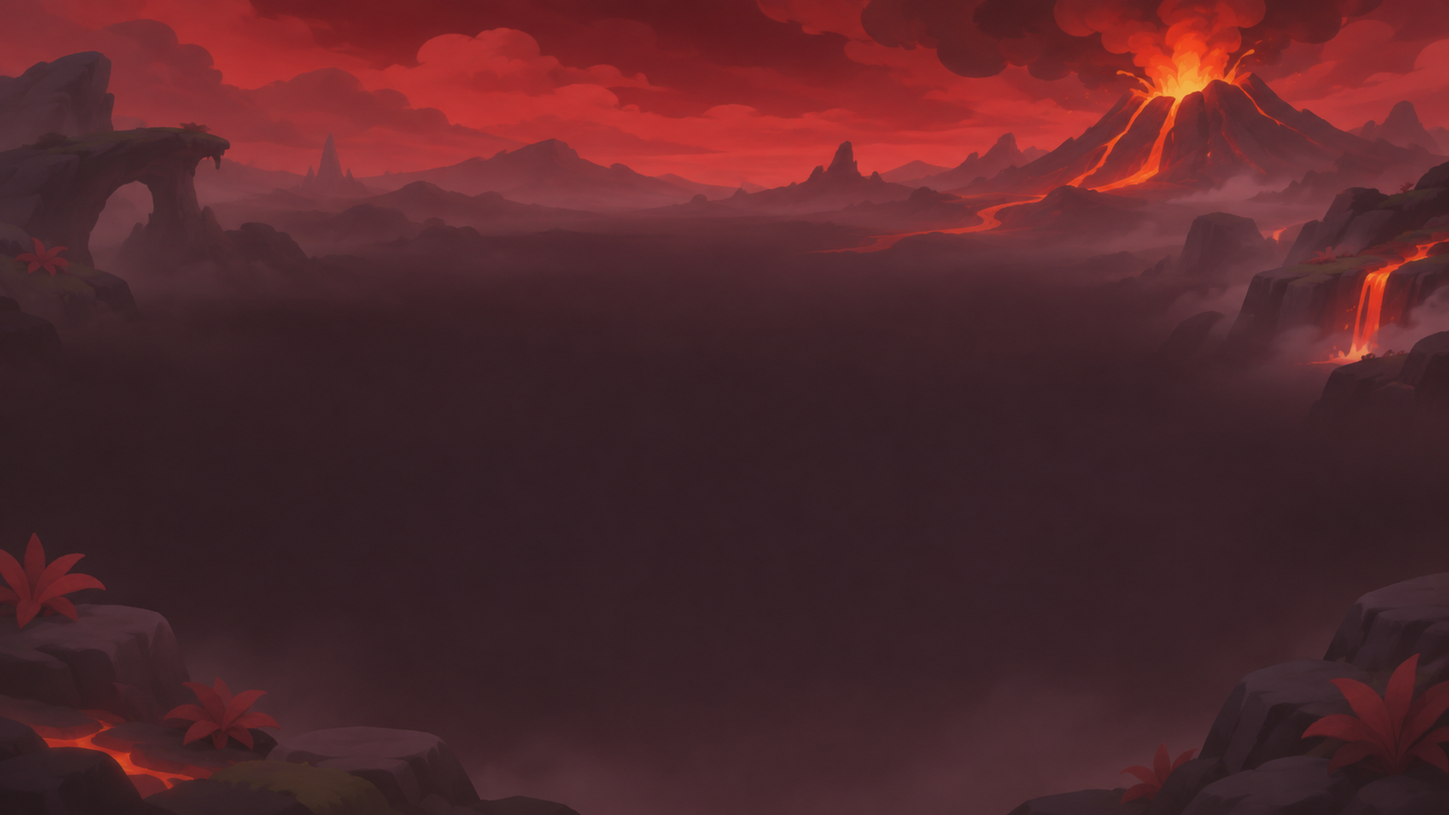
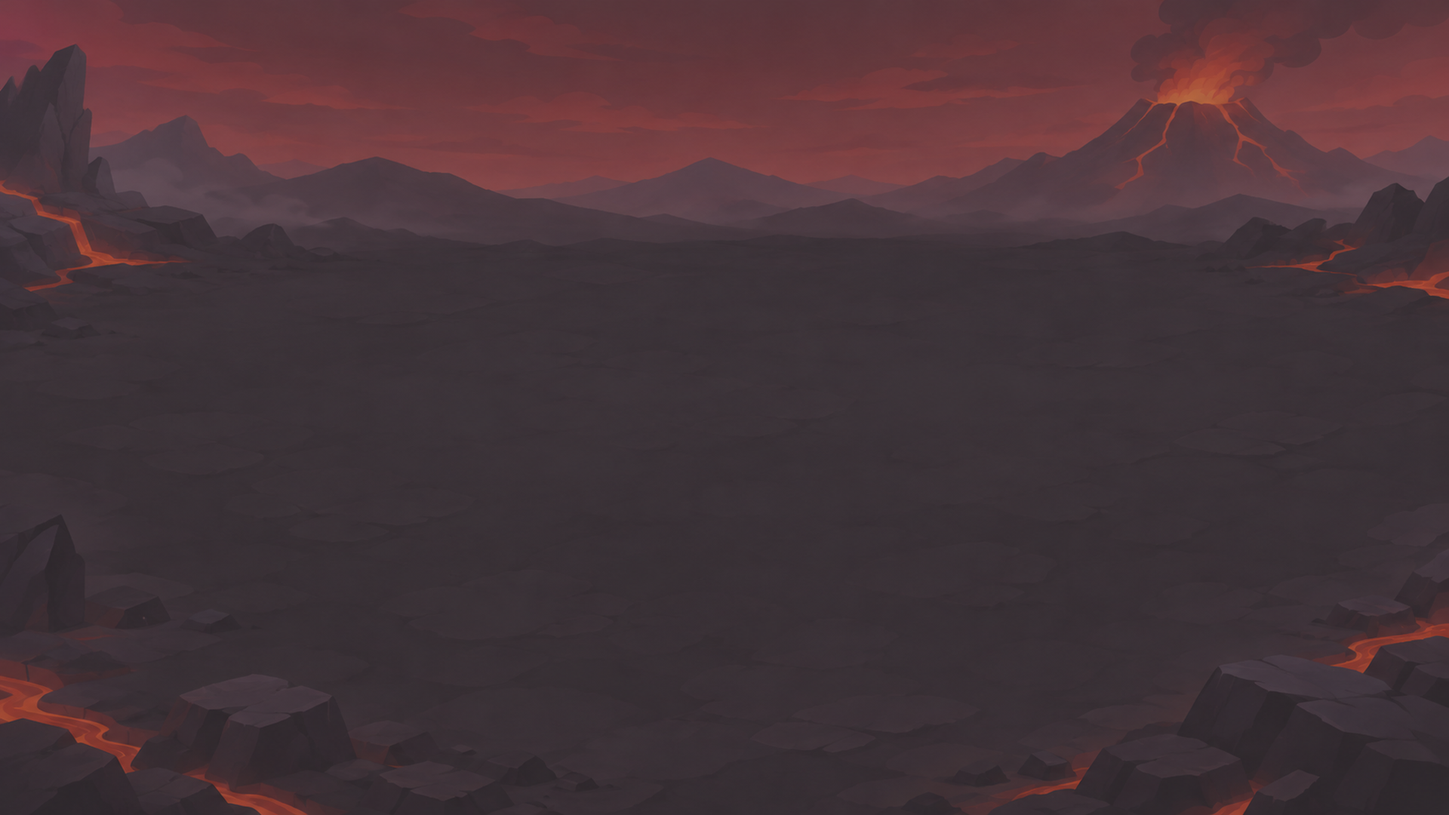
베타: 전장 진입 연출과 맵 스킨 개선

diff --git a/beta/index.html b/beta/index.html
@@ -18,7 +18,7 @@
 <meta property="og:image:alt" content="COMBINADE 로고와 유닛들">
 <meta property="og:locale" content="ko_KR">
 <meta name="twitter:card" content="summary_large_image">
-<link rel="stylesheet" href="lobby.css?v=b3054db-mwsj2ftf">
+<link rel="stylesheet" href="lobby.css?v=b3054db-mwsk3tnj">
 <style>
 *{box-sizing:border-box}body{margin:0;background:#0c1822;color:#eef6ed;font:14px 'Malgun Gothic',sans-serif;overflow:hidden}canvas{display:block;width:100vw;height:100vh;touch-action:none}.overlay{position:absolute;pointer-events:none}.panel{pointer-events:auto;background:#142735e8;border:1px solid #9fc4bd55;border-radius:12px;box-shadow:0 8px 30px #0005;padding:12px 16px}.top{top:16px;left:50%;transform:translateX(-50%);display:flex;gap:22px;white-space:nowrap}.danger,.stat-reduced{color:#ff7777}.help{top:16px;left:16px;line-height:1.7;color:#d1ded8}.actions{pointer-events:auto;bottom:18px;left:50%;transform:translateX(-50%);display:flex;gap:8px;white-space:nowrap}.selected{bottom:82px;left:50%;transform:translateX(-50%);min-width:300px;text-align:center}.unit-header{display:flex;justify-content:space-between;gap:16px;align-items:baseline;margin-bottom:8px;text-align:left}.unit-identity{display:flex;flex-direction:column;gap:2px}.unit-title{color:#b7c9c1;font-size:11px;font-weight:normal}.unit-affiliation,.unit-section-label{color:#b7c9c1;font-size:11px}.unit-info{display:flex;gap:24px;text-align:left}.unit-stats{min-width:155px}.unit-stats>div{display:flex;justify-content:space-between;gap:18px;line-height:1.7}.unit-stats span{color:#b7c9c1}.unit-skills{min-width:130px}.skill-list{display:flex;gap:6px;margin-top:4px}.skill-wrap{position:relative;display:inline-block}.skill-icon{width:34px;height:34px;padding:0;background:#31584e;font-weight:bold}.skill-tip{display:none;position:absolute;bottom:calc(100% + 8px);left:50%;transform:translateX(-50%);width:250px;padding:10px;background:#101c24ef;border:1px solid #9fc4bd77;border-radius:8px;box-shadow:0 5px 18px #0008;font-size:12px;line-height:1.6;color:#edf5ec;pointer-events:none;z-index:3}.skill-wrap:hover .skill-tip,.skill-wrap:focus-within .skill-tip{display:block}.skill-pending{color:#ffc18d}.unit-recipes{text-align:center}.unit-recipes:empty{display:none}.right{top:16px;right:16px;text-align:right}.speed-row{margin-top:6px}.target-modes{display:flex;gap:4px;margin-top:8px;justify-content:center}.target-modes button{font-size:11px;padding:5px 7px}.target-modes button[aria-pressed="true"]{background:#7aa88f;color:#10251d;border-color:#b8e2c7}.goal-tracker{top:74px;right:16px;width:260px;max-height:495px;overflow:auto;font-size:12px;line-height:1.5}.goal-tracker .goal-row{display:flex;align-items:center;gap:5px;padding:2px 0}.goal-portrait{width:20px!important;height:20px!important;font-size:10px}.goal-tracker button{padding:3px 8px}.boss-preview{top:92px;left:50%;transform:translateX(-50%);max-width:490px;text-align:center;border-color:#dfbd78;background:#2c2634ed}.boss-preview button{padding:4px 10px}.boss-preview strong{color:#ffe4a2}.modal{inset:0;display:flex;align-items:center;justify-content:center;background:#0009;pointer-events:auto}.modal-close{position:sticky;top:0;float:right;z-index:2;width:34px;height:34px;padding:0;font-size:22px;line-height:1;background:#263f47}.faction-tabs{display:flex;flex-wrap:wrap;gap:5px;margin:8px 0}.faction-tab{font-size:11px;padding:5px 7px}.faction-tab[aria-pressed="true"]{background:#7aa88f;color:#10251d;border-color:#b8e2c7}.reward-list{display:grid;grid-template-columns:repeat(2,minmax(0,1fr));gap:6px}.reward-list button{text-align:left;padding:6px}.modal .panel{width:min(520px,1440px);max-height:720px;overflow:auto;line-height:1.8}.hidden{display:none}button{font:inherit;color:#eef6ed;background:#31584e;border:1px solid #7aa69a;border-radius:7px;padding:9px 14px;cursor:pointer}button:hover{background:#467b6d}button:disabled{opacity:.45;cursor:default}h2,h3,p{margin:4px 0 9px}.muted{color:#b7c9c1}.portrait{width:46px;height:46px;padding:0;border-radius:50%;font-weight:bold;font-size:16px;margin:5px 4px 0;color:#15231d}.portrait.is-unavailable{filter:grayscale(1);opacity:.6}.portrait:disabled{opacity:.4}.portrait-wrap{display:inline-block;position:relative}.recipe-tip{display:none;position:absolute;bottom:calc(100% + 9px);left:50%;transform:translateX(-50%);width:max-content;max-width:260px;white-space:normal;text-align:left;padding:9px 12px;border-radius:8px;background:#101c24e8;border:1px solid #9fc4bd77;box-shadow:0 5px 18px #0008;color:#edf5ec;font-size:12px;line-height:1.6;pointer-events:none}.recipe-ability{display:block;margin:3px 0 7px;color:#c9d9d0}.ingredient-heading{display:block;margin-bottom:4px;color:#a9bbb2;font-size:11px}.ingredient-row{display:flex;align-items:center;gap:7px;min-width:190px;margin:4px 0}.ingredient-portrait{display:inline-flex;align-items:center;justify-content:center;flex:none;width:25px;height:25px;border-radius:50%;color:#15231d;font-weight:bold}.ingredient-name{flex:1;white-space:nowrap}.ingredient-count{white-space:nowrap;font-size:11px}.is-owned{color:#a9d8b5}.is-missing{color:#ff9d91}.portrait-wrap:hover .recipe-tip,.portrait-wrap:focus-within .recipe-tip{display:block}.toast{z-index:10;top:64px;left:50%;transform:translateX(-50%);white-space:nowrap;color:#ffe49a;text-shadow:0 2px 5px #000}
 .modal .panel:has(.recipe-book){width:min(1040px,1536px)}
@@ -55,11 +55,11 @@
 #stage .hub{pointer-events:auto}
 body{background:#05090c}
 </style>
-<link rel="stylesheet" href="battle-actions.css?v=b3054db-mwsj2ftf">
-<link rel="stylesheet" href="pixel-ui.css?v=b3054db-mwsj2ftf">
-<link rel="stylesheet" href="cosmetics-ui.css?v=b3054db-mwsj2ftf">
-<link rel="stylesheet" href="multiplayer.css?v=b3054db-mwsj2ftf">
-<link rel="stylesheet" href="title-screen.css?v=b3054db-mwsj2ftf"><link rel="stylesheet" href="tree.css?v=b3054db-mwsj2ftf">
+<link rel="stylesheet" href="battle-actions.css?v=b3054db-mwsk3tnj">
+<link rel="stylesheet" href="pixel-ui.css?v=b3054db-mwsk3tnj">
+<link rel="stylesheet" href="cosmetics-ui.css?v=b3054db-mwsk3tnj">
+<link rel="stylesheet" href="multiplayer.css?v=b3054db-mwsk3tnj">
+<link rel="stylesheet" href="title-screen.css?v=b3054db-mwsk3tnj"><link rel="stylesheet" href="tree.css?v=b3054db-mwsk3tnj">
 </head><body>
 <canvas id="game"></canvas>
 <div id="stage">
@@ -117,5 +117,5 @@ body{background:#05090c}
 </div>
 <div id="modal" class="overlay modal hidden"><div class="panel" id="modalContent"></div></div>
 </div>
-<script>globalThis.COMBINADE_REDESIGN=true</script><script src="manmul/roster-data.js?v=b3054db-mwsj2ftf"></script><script src="manmul/redesign-roster.js?v=b3054db-mwsj2ftf"></script><script src="manmul/model.js?v=b3054db-mwsj2ftf"></script><script src="manmul/unit-text.js?v=b3054db-mwsj2ftf"></script>
-<script src="manmul/roster.js?v=b3054db-mwsj2ftf"></script><script src="manmul/game-data.js?v=b3054db-mwsj2ftf"></script><script src="manmul/themes.js?v=b3054db-mwsj2ftf"></script><script src="records.js?v=b3054db-mwsj2ftf"></script><script src="stars.js?v=b3054db-mwsj2ftf"></script><script src="progression.js?v=b3054db-mwsj2ftf"></script><script src="manmul/lazy-images.js?v=b3054db-mwsj2ftf"></script><script src="summon-fusion-fx.js?v=b3054db-mwsj2ftf"></script><script src="manmul/basic-data.js?v=b3054db-mwsj2ftf"></script><script src="manmul/upper-basic-data.js?v=b3054db-mwsj2ftf"></script><script src="manmul/redesign-data.js?v=b3054db-mwsj2ftf"></script><script src="manmul/reactions.js?v=b3054db-mwsj2ftf"></script><script src="manmul/combat.js?v=b3054db-mwsj2ftf"></script><script src="manmul/targeting.js?v=b3054db-mwsj2ftf"></script><script src="manmul/basic.js?v=b3054db-mwsj2ftf"></script><script src="manmul/skill-data.js?v=b3054db-mwsj2ftf"></script><script src="manmul/redesign-skills.js?v=b3054db-mwsj2ftf"></script><script src="manmul/skills.js?v=b3054db-mwsj2ftf"></script><script src="manmul/effects.js?v=b3054db-mwsj2ftf"></script><script src="manmul/summons.js?v=b3054db-mwsj2ftf"></script><script src="manmul/passives.js?v=b3054db-mwsj2ftf"></script><script src="manmul/arena.js?v=b3054db-mwsj2ftf"></script><script src="manmul/bridge.js?v=b3054db-mwsj2ftf"></script><script src="manmul/roles.js?v=b3054db-mwsj2ftf"></script><script src="manmul/target-rules.js?v=b3054db-mwsj2ftf"></script><script src="manmul/magic-art-data.js?v=b3054db-mwsj2ftf"></script><script src="manmul/upper-art-data.js?v=b3054db-mwsj2ftf"></script><script src="manmul/normal-basic-fx.js?v=b3054db-mwsj2ftf"></script><script src="manmul/skill-fx-data.js?v=b3054db-mwsj2ftf"></script><script src="manmul/skill-fx.js?v=b3054db-mwsj2ftf"></script><script src="manmul/book-portrait-data.js?v=b3054db-mwsj2ftf"></script><script src="manmul/skill-icon-data.js?v=b3054db-mwsj2ftf"></script><script src="sound.js?v=b3054db-mwsj2ftf"></script><script src="manmul/rift.js?v=b3054db-mwsj2ftf"></script><script src="manmul/events.js?v=b3054db-mwsj2ftf"></script><script src="manmul/marks.js?v=b3054db-mwsj2ftf"></script><script src="manmul/cards.js?v=b3054db-mwsj2ftf"></script><script src="manmul/missions.js?v=b3054db-mwsj2ftf"></script><script src="manmul/endless.js?v=b3054db-mwsj2ftf"></script><script src="manmul/game.js?v=fusioncards-20261123"></script><script src="manmul/beta-view.js?v=b3054db-mwsj2ftf"></script><script src="manmul/cartoon-manifest.js?v=fusioncards-20261123"></script><script src="manmul/beta-cartoon.js?v=b3054db-mwsj2ftf"></script><script src="manmul/beta-play.js?v=b3054db-mwsj2ftf"></script><script async src="https://cdn.jsdelivr.net/npm/peerjs@1.5.4/dist/peerjs.min.js"></script><script src="tree-ui.js?v=b3054db-mwsj2ftf"></script><script src="save.js?v=b3054db-mwsj2ftf"></script><script src="tutorial.js?v=b3054db-mwsj2ftf"></script><script src="multiplayer.js?v=b3054db-mwsj2ftf"></script><script src="versus.js?v=b3054db-mwsj2ftf"></script><script src="coop.js?v=b3054db-mwsj2ftf"></script><script src="hud-layout.js?v=b3054db-mwsj2ftf"></script><div style="position:fixed;left:8px;bottom:6px;z-index:9999;font:12px sans-serif;color:#4fd1a5;pointer-events:none;text-shadow:0 1px 2px #000">유닛 개편 테스트 버전 · 임시 도트</div></body></html>
+<script>globalThis.COMBINADE_REDESIGN=true</script><script src="manmul/roster-data.js?v=b3054db-mwsk3tnj"></script><script src="manmul/redesign-roster.js?v=b3054db-mwsk3tnj"></script><script src="manmul/model.js?v=b3054db-mwsk3tnj"></script><script src="manmul/unit-text.js?v=b3054db-mwsk3tnj"></script>
+<script src="manmul/roster.js?v=b3054db-mwsk3tnj"></script><script src="manmul/game-data.js?v=b3054db-mwsk3tnj"></script><script src="manmul/themes.js?v=b3054db-mwsk3tnj"></script><script src="records.js?v=b3054db-mwsk3tnj"></script><script src="stars.js?v=b3054db-mwsk3tnj"></script><script src="progression.js?v=b3054db-mwsk3tnj"></script><script src="manmul/lazy-images.js?v=b3054db-mwsk3tnj"></script><script src="summon-fusion-fx.js?v=b3054db-mwsk3tnj"></script><script src="manmul/basic-data.js?v=b3054db-mwsk3tnj"></script><script src="manmul/upper-basic-data.js?v=b3054db-mwsk3tnj"></script><script src="manmul/redesign-data.js?v=b3054db-mwsk3tnj"></script><script src="manmul/reactions.js?v=b3054db-mwsk3tnj"></script><script src="manmul/combat.js?v=b3054db-mwsk3tnj"></script><script src="manmul/targeting.js?v=b3054db-mwsk3tnj"></script><script src="manmul/basic.js?v=b3054db-mwsk3tnj"></script><script src="manmul/skill-data.js?v=b3054db-mwsk3tnj"></script><script src="manmul/redesign-skills.js?v=b3054db-mwsk3tnj"></script><script src="manmul/skills.js?v=b3054db-mwsk3tnj"></script><script src="manmul/effects.js?v=b3054db-mwsk3tnj"></script><script src="manmul/summons.js?v=b3054db-mwsk3tnj"></script><script src="manmul/passives.js?v=b3054db-mwsk3tnj"></script><script src="manmul/arena.js?v=b3054db-mwsk3tnj"></script><script src="manmul/bridge.js?v=b3054db-mwsk3tnj"></script><script src="manmul/roles.js?v=b3054db-mwsk3tnj"></script><script src="manmul/target-rules.js?v=b3054db-mwsk3tnj"></script><script src="manmul/magic-art-data.js?v=b3054db-mwsk3tnj"></script><script src="manmul/upper-art-data.js?v=b3054db-mwsk3tnj"></script><script src="manmul/normal-basic-fx.js?v=b3054db-mwsk3tnj"></script><script src="manmul/skill-fx-data.js?v=b3054db-mwsk3tnj"></script><script src="manmul/skill-fx.js?v=b3054db-mwsk3tnj"></script><script src="manmul/book-portrait-data.js?v=b3054db-mwsk3tnj"></script><script src="manmul/skill-icon-data.js?v=b3054db-mwsk3tnj"></script><script src="sound.js?v=b3054db-mwsk3tnj"></script><script src="manmul/rift.js?v=b3054db-mwsk3tnj"></script><script src="manmul/events.js?v=b3054db-mwsk3tnj"></script><script src="manmul/marks.js?v=b3054db-mwsk3tnj"></script><script src="manmul/cards.js?v=b3054db-mwsk3tnj"></script><script src="manmul/missions.js?v=b3054db-mwsk3tnj"></script><script src="manmul/endless.js?v=b3054db-mwsk3tnj"></script><script src="manmul/game.js?v=b3054db-mwsk3tnj"></script><script src="manmul/beta-view.js?v=b3054db-mwsk3tnj"></script><script src="manmul/cartoon-manifest.js?v=b3054db-mwsk3tnj"></script><script src="manmul/beta-cartoon.js?v=b3054db-mwsk3tnj"></script><script src="manmul/beta-play.js?v=b3054db-mwsk3tnj"></script><script async src="https://cdn.jsdelivr.net/npm/peerjs@1.5.4/dist/peerjs.min.js"></script><script src="tree-ui.js?v=b3054db-mwsk3tnj"></script><script src="save.js?v=b3054db-mwsk3tnj"></script><script src="tutorial.js?v=b3054db-mwsk3tnj"></script><script src="multiplayer.js?v=b3054db-mwsk3tnj"></script><script src="versus.js?v=b3054db-mwsk3tnj"></script><script src="coop.js?v=b3054db-mwsk3tnj"></script><script src="hud-layout.js?v=b3054db-mwsk3tnj"></script><div style="position:fixed;left:8px;bottom:6px;z-index:9999;font:12px sans-serif;color:#4fd1a5;pointer-events:none;text-shadow:0 1px 2px #000">유닛 개편 테스트 버전 · 임시 도트</div></body></html>

diff --git a/beta/manmul/game.js b/beta/manmul/game.js
@@ -819,7 +819,7 @@ function profileCollectionHtml(){let byGrade=ManmulRoster.grades.map(grade=>{let
  return `<section class="profile-section"><h3>유닛 아이콘</h3><p class="profile-hint">소환·조합으로 유닛을 정해진 횟수만큼 얻으면 그 유닛을 아이콘으로 쓸 수 있습니다.</p>${byGrade}</section><section class="profile-section"><h3>보스 초상화</h3><p class="profile-hint">보스를 ${ManmulRecords.bossIconThreshold}회 처치하면 초상화 아이콘이 열립니다.</p>${bosses}</section>`}
 function profileAchievementsHtml(){let list=ManmulRecords.achievementList(),groups=[...new Set(list.map(a=>a.group))],done=list.filter(a=>a.done).length;return `<p class="profile-hint">달성 ${done}/${list.length}</p>`+groups.map(g=>`<section class="profile-section"><h3>${g}</h3><div class="achievement-list">${list.filter(a=>a.group===g).map(a=>`<div class="achievement-row${a.done?' is-done':''}" data-group="${({누적:'total',진행:'progress',테마:'theme',도전:'challenge'})[a.group]||''}"><span><strong>${escapeProfileText(a.name)}</strong><small>${escapeProfileText(a.desc)}</small></span><span class="run-record-bar" aria-hidden="true"><i style="width:${Math.round(a.current/a.max*100)}%"></i></span><small class="achievement-reward">${a.done?'✓ '+a.date:a.current.toLocaleString()+'/'+a.max.toLocaleString()}<br>${a.done||!a.name.startsWith('?')?recordRewardText(a.reward):'???'}</small></div>`).join('')}</div></section>`).join('')}
 function switchProfileTab(tab){profileTab=tab;openProfileDialog()}
-function profileMapsHtml(){return `<section class="profile-section"><h3>전장 스킨 <small>${Object.keys(mapSkins).filter(id=>mapSkinUnlocked(id)).length}/${Object.keys(mapSkins).length}</small></h3><p class="profile-hint">선택한 스킨은 다음 전투에 적용됩니다. 난이도를 처음 클리어하거나 조각 상자에서 새 스킨을 얻을 수 있습니다.</p><div class="map-skin-options">${Object.entries(mapSkins).map(([id,name])=>{let open=mapSkinUnlocked(id);return `<button type="button" class="map-skin-option${open?'':' is-locked'}" aria-pressed="${playerProfile.mapSkin===id}" ${open?'':'disabled'} onclick="equipMapSkin('${id}')">${id==='forest'?'<span class="map-skin-forest" aria-hidden="true"><i></i><b></b></span>':`<img src="assets/ui/map-skins/${id}.webp" alt="">`}<span>${name}</span>${open?'':`<small class="map-skin-lock">🔒 ${mapSkinLockText(id)}</small>`}</button>`}).join('')}</div></section>`}
+function profileMapsHtml(){let beta=!!globalThis.COMBINADE_REDESIGN;return `<section class="profile-section"><h3>전장 스킨 <small>${Object.keys(mapSkins).filter(id=>mapSkinUnlocked(id)).length}/${Object.keys(mapSkins).length}</small></h3><p class="profile-hint">${beta?'모든 스킨을 선택할 수 있습니다. 선택한 스킨은 다음 전투에 적용됩니다.':'선택한 스킨은 다음 전투에 적용됩니다. 난이도를 처음 클리어하거나 조각 상자에서 새 스킨을 얻을 수 있습니다.'}</p><div class="map-skin-options">${Object.entries(mapSkins).map(([id,name])=>{let open=mapSkinUnlocked(id);return `<button type="button" class="map-skin-option${open?'':' is-locked'}" aria-pressed="${playerProfile.mapSkin===id}" ${open?'':'disabled'} onclick="equipMapSkin('${id}')">${beta?`<span class="map-skin-cartoon" style="background-image:url('assets/cartoon/arena/${id}/backdrop.png')"><img src="assets/cartoon/arena/${id}/arena.png" alt=""></span>`:id==='forest'?'<span class="map-skin-forest" aria-hidden="true"><i></i><b></b></span>':`<img src="assets/ui/map-skins/${id}.webp" alt="">`}<span>${name}</span>${open?'':`<small class="map-skin-lock">🔒 ${mapSkinLockText(id)}</small>`}</button>`}).join('')}</div></section>`}
 function openProfileDialog(){let dialog=$('#profileDialog');if(!dialog)return;let tabs=[['look','꾸미기'],['maps','전장 스킨'],['collection','수집'],['achievements','업적']],body=profileTab==='maps'?profileMapsHtml():profileTab==='collection'?profileCollectionHtml():profileTab==='achievements'?profileAchievementsHtml():profileLookHtml();
  dialog.querySelector('.hub-dialog-panel').innerHTML=`<button type="button" class="hub-dialog-close" onclick="closeProfileDialog()" aria-label="프로필 닫기">×</button><h2 id="profileDialogTitle">프로필</h2><div class="hub-profile plate-${playerProfile.plate} profile-preview">${profileBadge()}</div><form class="profile-name" onsubmit="event.preventDefault();saveProfileName()"><label for="profileName">이름</label><input id="profileName" maxlength="12" value="${escapeProfileText(playerProfile.name)}" autocomplete="off" onkeydown="if(event.key==='Enter'&&(event.isComposing||event.keyCode===229)){event.preventDefault();this.dataset.saveAfter='1'}" onkeyup="if(event.key==='Enter'&&this.dataset.saveAfter){delete this.dataset.saveAfter;saveProfileName()}"><small class="profile-name-saved" role="status"></small><button type="submit">저장</button></form><div class="profile-tabs" role="tablist">${tabs.map(([id,label])=>`<button type="button" role="tab" aria-selected="${profileTab===id}" onclick="switchProfileTab('${id}')">${label}</button>`).join('')}</div>${body}`;
 dialog.classList.remove('hidden');dialog.onkeydown=e=>{if(e.key==='Escape')closeProfileDialog()};dialog.onclick=e=>{if(e.target===dialog)closeProfileDialog()};dialog.querySelector('#profileName')?.focus()}

diff --git a/beta/manmul/beta-cartoon.js b/beta/manmul/beta-cartoon.js
@@ -126,12 +126,16 @@
   if(!groundImages.has(src))groundImages.set(src,load(src));return groundImages.get(src);
  }
  const arenaImage=()=>skinImage('arena',arenaSkins,list.legacyArena??!!list.arena);
- const backdropImage=()=>skinImage('backdrop',backdropSkins,list.legacyBackdrop??!!list.backdrop);
+ // All thirteen beta backdrops now live in their skin folders, including forest.
+ const backdropImage=()=>skinImage('backdrop',backdropSkins,false);
  // The backdrop fills the screen (cover) around the field centre and follows the intro camera, like the old skin backdrops.
  function backdropScreen(){
   const img=backdropImage();if(!ready(img))return false;
   const iw=img.naturalWidth,ih=img.naturalHeight,cam=introRemaining>0?introCameraState():{zoom:1,x:0,y:0},t=transform();
-  const s=Math.max(innerWidth/iw,innerHeight/ih)*1.06*cam.zoom,w=iw*s,h=ih*s,cx=(t.cx??innerWidth/2)+cam.x*t.scale,cy=(t.cy??innerHeight/2)+cam.y*t.scale;
+  // Always cover the screen: the intro camera starts zoomed out (0.75), and scaling the backdrop by that left the
+  // screen edges empty. It only drifts in a little (1.03 → 1.08) as the camera arrives, for depth.
+  const s=Math.max(innerWidth/iw,innerHeight/ih)*(1.03+.05*Math.min(1,Math.max(0,(cam.zoom-.75)/.25))),w=iw*s,h=ih*s;
+  const cx=Math.min(w/2,Math.max(innerWidth-w/2,(t.cx??innerWidth/2)+cam.x*t.scale*.3)),cy=Math.min(h/2,Math.max(innerHeight-h/2,(t.cy??innerHeight/2)+cam.y*t.scale*.3));
   ctx.save();ctx.fillStyle='#101d19';ctx.fillRect(0,0,innerWidth,innerHeight);ctx.imageSmoothingEnabled=true;ctx.imageSmoothingQuality='high';ctx.drawImage(img,cx-w/2,cy-h/2,w,h);ctx.restore();return true;
  }
  // arena.png is 1280×760 at the 1600×900 stage with the field centre at (640, 390); `scale` is the current world→screen scale.
@@ -319,5 +323,40 @@
    try{baseBasicFx()}finally{normalBasicProjectiles.splice(0,normalBasicProjectiles.length,...all)}
   }
  };
- root.ManmulBetaCartoon={unitImage,enemyViews,ready,GRADE_PX,ENEMY_BODY,attackStyle,transforms,TRANSFORM};
+ // ---- Portraits (unit panel, fusion cards, codex): the cartoon picture instead of the pixel sheet ----
+ // The art box (210 px tall, feet at y=236 of 256) is centred a little below the middle so the body fills the frame.
+ const cartoonPortrait=id=>`background-color:#202629;background-image:url('assets/cartoon/units/${id}.png');background-size:92% auto;background-position:center 62%;background-repeat:no-repeat;image-rendering:auto;color:transparent`;
+ const basePortrait=portraitStyle,baseBookPortrait=bookPortraitStyle,basePortraitContent=portraitContent;
+ portraitStyle=function(id){return unitIds.has(id)?cartoonPortrait(id):basePortrait(id)};
+ bookPortraitStyle=function(id){return unitIds.has(id)?cartoonPortrait(id):baseBookPortrait(id)};
+ portraitContent=function(id){return unitIds.has(id)?'':basePortraitContent(id)};
+
+ // Entrance clouds are viewport overlays, not world-space sprites. Keep the
+ // original entrance as a fallback if a network error leaves either bank absent.
+ const entrance={left:load('assets/cartoon/intro/clouds-left.png'),right:load('assets/cartoon/intro/clouds-right.png'),puffs:load('assets/cartoon/intro/cloud-puffs.png')};
+ const originalViewportFog=drawViewportFog,originalIntroAssetsSettled=introAssetsSettled;
+ introAssetsSettled=function(){return originalIntroAssetsSettled()&&Object.values(entrance).every(img=>img.complete)};
+ document.body?.classList.add('beta-cartoon-intro');
+ const cloudFilters={snow:'brightness(1.03)',desert:'sepia(.28) saturate(.8)',lava:'sepia(.35) saturate(1.1) hue-rotate(320deg) brightness(.75)',sky:'sepia(.12) hue-rotate(155deg)',mushroom:'sepia(.16) hue-rotate(205deg)',cherry:'sepia(.25) hue-rotate(290deg)',library:'sepia(.15) hue-rotate(100deg)',clockwork:'sepia(.3) saturate(.7)',deepsea:'sepia(.24) hue-rotate(145deg)',candy:'sepia(.2) hue-rotate(290deg)',stars:'sepia(.16) hue-rotate(195deg) brightness(.82)',amusement:'sepia(.14) saturate(.65) brightness(.86)'};
+ drawViewportFog=function(){
+  if(introRemaining<=0)return;
+  if(!ready(entrance.left)||!ready(entrance.right)){originalViewportFog();return}
+  const elapsed=Math.max(0,introTotal-introRemaining),p=Math.max(0,Math.min(1,(elapsed-.1)/.7));
+  const eased=p*p*(3-2*p),w=innerWidth,h=innerHeight,bank=w*1400/2600,shift=eased*w*.62;
+  if(p>=1)return;
+  ctx.save();ctx.imageSmoothingEnabled=true;ctx.imageSmoothingQuality='high';
+  ctx.filter=cloudFilters[playerProfile.mapSkin]||'none';ctx.globalAlpha=1-eased*.72;
+  ctx.drawImage(entrance.left,-shift,0,bank,h);
+  ctx.drawImage(entrance.right,w-bank+shift,0,bank,h);
+  if(p>0&&ready(entrance.puffs)){
+   ctx.globalAlpha=Math.sin(Math.PI*p)*.85;
+   for(let i=0;i<6;i++){
+    const size=Math.min(w,h)*(.12+(i%3)*.025),direction=i%2?-1:1;
+    const x=w*(.2+i*.12)+direction*eased*w*.25-size/2,y=h*(.17+(i*37%67)/100)-eased*h*.12-size/2;
+    ctx.drawImage(entrance.puffs,i*384,0,384,384,x,y,size,size);
+   }
+  }
+  ctx.restore();
+ };
+ root.ManmulBetaCartoon={unitImage,enemyViews,ready,GRADE_PX,ENEMY_BODY,attackStyle,transforms,TRANSFORM,cartoonPortrait};
 })(globalThis);

diff --git a/beta/hud-layout.js b/beta/hud-layout.js
@@ -30,19 +30,17 @@ const HudLayout=(()=>{
  // Beginner hints dismiss themselves (counted as seen) when left alone.
  let hintSince=0,hintId=null;
  function hintTick(){let hint=$('#tutorialHint');if(!shown(hint)||typeof ManmulTutorial!=='object'){hintId=null;return}let id=ManmulTutorial.current;if(id!==hintId){hintId=id;hintSince=Date.now();return}if(id&&Date.now()-hintSince>HINT_SECONDS*1000){ManmulTutorial.dismiss();hintId=null}}
- // Unit panel over the field: with units selected it rests see-through so the field behind stays visible, turns solid
- // while the pointer is over it, and a right-click on it moves the selected units to that spot on the field.
- // Devices without hover (touch) keep it solid.
- let peekInstalled=false,peekHover=false,peekBox=null;
- const canHover=()=>typeof matchMedia!=='function'||matchMedia('(hover: hover)').matches;
- const ownSelected=()=>typeof selected!=='undefined'&&typeof units!=='undefined'&&selected.length>0&&units.some(u=>selected.includes(u.id));
- function refreshPeek(){if(peekBox)peekBox.classList.toggle('is-dim',ownSelected()&&!peekHover&&canHover())}
- function installPeek(){let box=$('#selection');if(!box||peekInstalled||!box.addEventListener)return;peekInstalled=true;peekBox=box;
-  box.addEventListener('pointerenter',()=>{peekHover=true;refreshPeek()});
-  box.addEventListener('pointerleave',()=>{peekHover=false;refreshPeek()});
+ // Unit panel over the field: hovering its empty parts with units selected makes it see-through, and a right-click
+ // there moves the selected units to that spot on the field (the panel no longer blocks the bottom of the arena).
+ let peekInstalled=false;
+ function installPeek(){let box=$('#selection');if(!box||peekInstalled||!box.addEventListener)return;peekInstalled=true;
+  const interactive=t=>!!t?.closest?.('button,input,select,a,.skill-wrap,.unit-more');
+  const ownSelected=()=>typeof selected!=='undefined'&&typeof units!=='undefined'&&selected.length>0&&units.some(u=>selected.includes(u.id));
+  box.addEventListener('pointermove',e=>box.classList.toggle('is-peek',ownSelected()&&!interactive(e.target)));
+  box.addEventListener('pointerleave',()=>box.classList.remove('is-peek'));
   box.addEventListener('contextmenu',e=>{if(ownSelected())e.preventDefault()});
   box.addEventListener('pointerdown',e=>{if(e.button!==2||!ownSelected()||typeof pos!=='function'||typeof issueMove!=='function')return;e.preventDefault();e.stopPropagation();issueMove(units.filter(u=>selected.includes(u.id)),pos(e))})}
- function tick(){try{addFoldButtons();layout();hintTick();installPeek();refreshPeek()}catch(e){}}
+ function tick(){try{addFoldButtons();layout();hintTick();installPeek()}catch(e){}}
  if(typeof setInterval==='function'&&typeof document!=='undefined')setInterval(tick,400);
  return {layout,tick,get folded(){return folded}};
 })();

diff --git a/beta/battle-actions.css b/beta/battle-actions.css
@@ -493,6 +493,9 @@ body:has(#selection:not(.hidden)) .test-controls { bottom: auto; top: 82px; left
   text-shadow: 0 2px 3px #000, 0 0 8px #000;
 }
 .round-banner.hidden { display: none; }
+body.beta-cartoon-intro .round-banner {
+  background: url('assets/cartoon/intro/round-banner.png') center / 100% 100% no-repeat;
+}
 .round-banner strong { font: 700 18px "Galmuri HUD", "Malgun Gothic", sans-serif; line-height: 1.25; }
 .round-banner span { font-size: 12px; color: #e0d3ac; line-height: 1.3; }
 .round-banner.is-visible { animation: round-banner-show 2.5s ease both; }
@@ -1078,7 +1081,7 @@ body.coop-mode #huntButton { display: none; }
 .coop-bar.hidden { display: none; }
 
 /* Unit panel no longer hides the bottom of the field: the button row moves into the panel's single row, and with
-   units selected the panel rests see-through and turns solid on hover; right-click on it moves the units. */
+   units selected the empty parts of the panel turn see-through on hover; right-click there moves the units. */
 .selected:has(.unit-compact) { display: grid; grid-template-columns: 1fr auto; grid-template-areas: "main tools" "details details"; column-gap: 10px; align-items: center; }
 .selected:has(.unit-compact) .unit-compact { grid-area: main; }
 .selected:has(.unit-compact) .unit-details { grid-area: details; }
@@ -1086,7 +1089,7 @@ body.coop-mode #huntButton { display: none; }
 .selected:has(.unit-compact) .selection-toolbar-group { gap: 4px; }
 .selected:has(.unit-compact) .selection-toolbar button:not(.portrait):not(.skill-icon) { padding: 3px 8px; font-size: 11px; min-height: 0; }
 .selected:has(.unit-compact) .selection-toolbar .selection-toolbar-close:not(.portrait):not(.skill-icon) { width: 26px; min-width: 26px; font-size: 16px; }
-.selected.is-dim { opacity: .5; }
+.selected.is-peek { opacity: .28; transition: opacity .12s; }
 .selected { transition: opacity .12s; }
 /* Field limits for 재앙 (1) and 천체 (2): shown on the unit panel, in the codex and on fusion cards. */
 .grade-limit { color: #ff9b7a; font-weight: 400; }

diff --git a/beta/progression.js b/beta/progression.js
@@ -143,7 +143,7 @@ const profileCosmetics={
 const mapSkins={forest:'고대 유적 숲',snow:'설원 유적',desert:'사막 신전',lava:'용암 균열',sky:'천공 성역',mushroom:'달빛 버섯 숲',cherry:'벚꽃 정원',library:'침수된 도서관',clockwork:'태엽 공방',deepsea:'심해 유적',candy:'과자 왕국',stars:'별빛 관측소',amusement:'폐허가 된 놀이공원'};
 // 전장 스킨 해금: 숲만 처음부터 열려 있고, 네 스킨은 난이도 첫 클리어, 나머지는 조각 상자에서 얻는다.
 const mapSkinUnlock={forest:{free:true},snow:{clear:'easy'},desert:{clear:'normal'},lava:{clear:'hard'},sky:{clear:'extreme'}};
-function mapSkinUnlocked(id,firstClears=playerProfile?.firstClears||{}){if(!Object.hasOwn(mapSkins,id))return false;let rule=mapSkinUnlock[id];if(rule?.free)return true;if(rule?.clear)return firstClears[rule.clear]===true;return typeof boxCosmeticOwned==='function'&&boxCosmeticOwned('maps',id)}
+function mapSkinUnlocked(id,firstClears=playerProfile?.firstClears||{}){if(!Object.hasOwn(mapSkins,id))return false;if(globalThis.COMBINADE_REDESIGN)return true;let rule=mapSkinUnlock[id];if(rule?.free)return true;if(rule?.clear)return firstClears[rule.clear]===true;return typeof boxCosmeticOwned==='function'&&boxCosmeticOwned('maps',id)}
 function mapSkinLockText(id){let rule=mapSkinUnlock[id];if(rule?.clear)return `${({easy:'입문',normal:'일반',hard:'상급',extreme:'극한'})[rule.clear]} 첫 클리어`;return '조각 상자에서 획득'}
 const profileDefaults={name:'수호자',title:'rookie',icon:'basic',plate:'basic',mapSkin:'forest',firstClears:{}};
 const cosmeticSlots=[['title','titles'],['icon','icons'],['plate','plates']];

diff --git a/beta/lobby.css b/beta/lobby.css
@@ -44,6 +44,8 @@
 .map-skin-option{padding:4px;border:2px solid #627b70;background:#182a2b;color:#e9f0eb;text-align:left;cursor:pointer;font:inherit}
 .map-skin-option[aria-pressed="true"]{border-color:#f0cb82;background:#365247}
 .map-skin-option img{display:block;width:100%;aspect-ratio:10/7;object-fit:cover}
+.map-skin-option .map-skin-cartoon{display:block;padding:0;aspect-ratio:10/7;background-position:center;background-size:cover;overflow:hidden}
+.map-skin-option .map-skin-cartoon img{width:100%;height:100%;object-fit:contain}
 .map-skin-option .map-skin-forest{position:relative;display:block;padding:0;width:100%;aspect-ratio:10/7;background:url('assets/ui/ancient-ruins-v1/outer-ground.webp') center/100% 100% no-repeat;overflow:hidden}
 .map-skin-forest i,.map-skin-forest b{position:absolute;display:block}
 .map-skin-forest i{left:19%;top:20%;width:62%;height:60%;background:url('assets/ui/ancient-ruins-v1/arena-floor.webp') center/100% 100% no-repeat}
